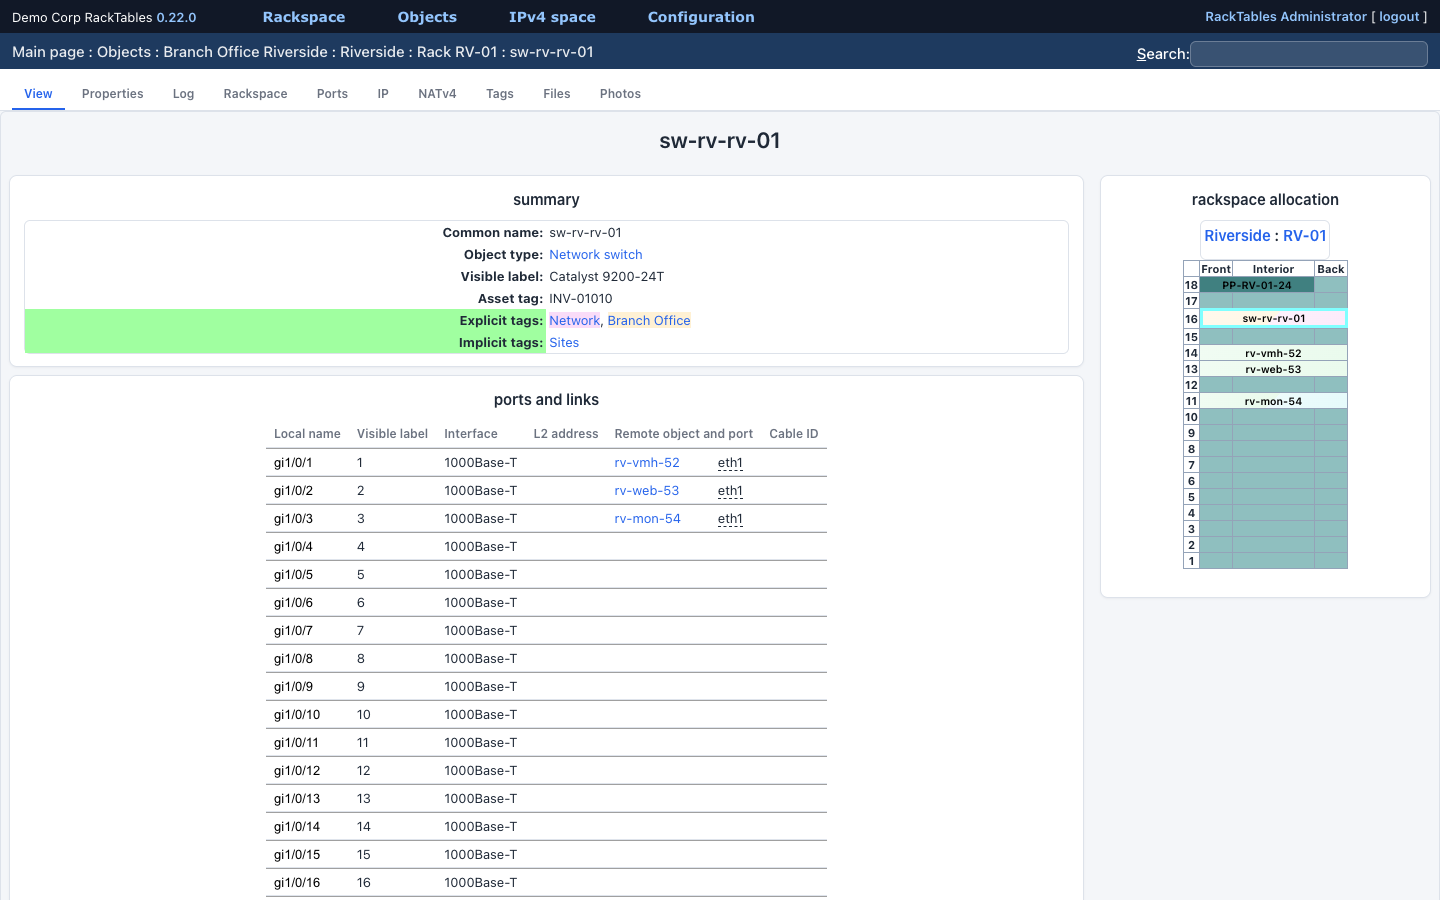
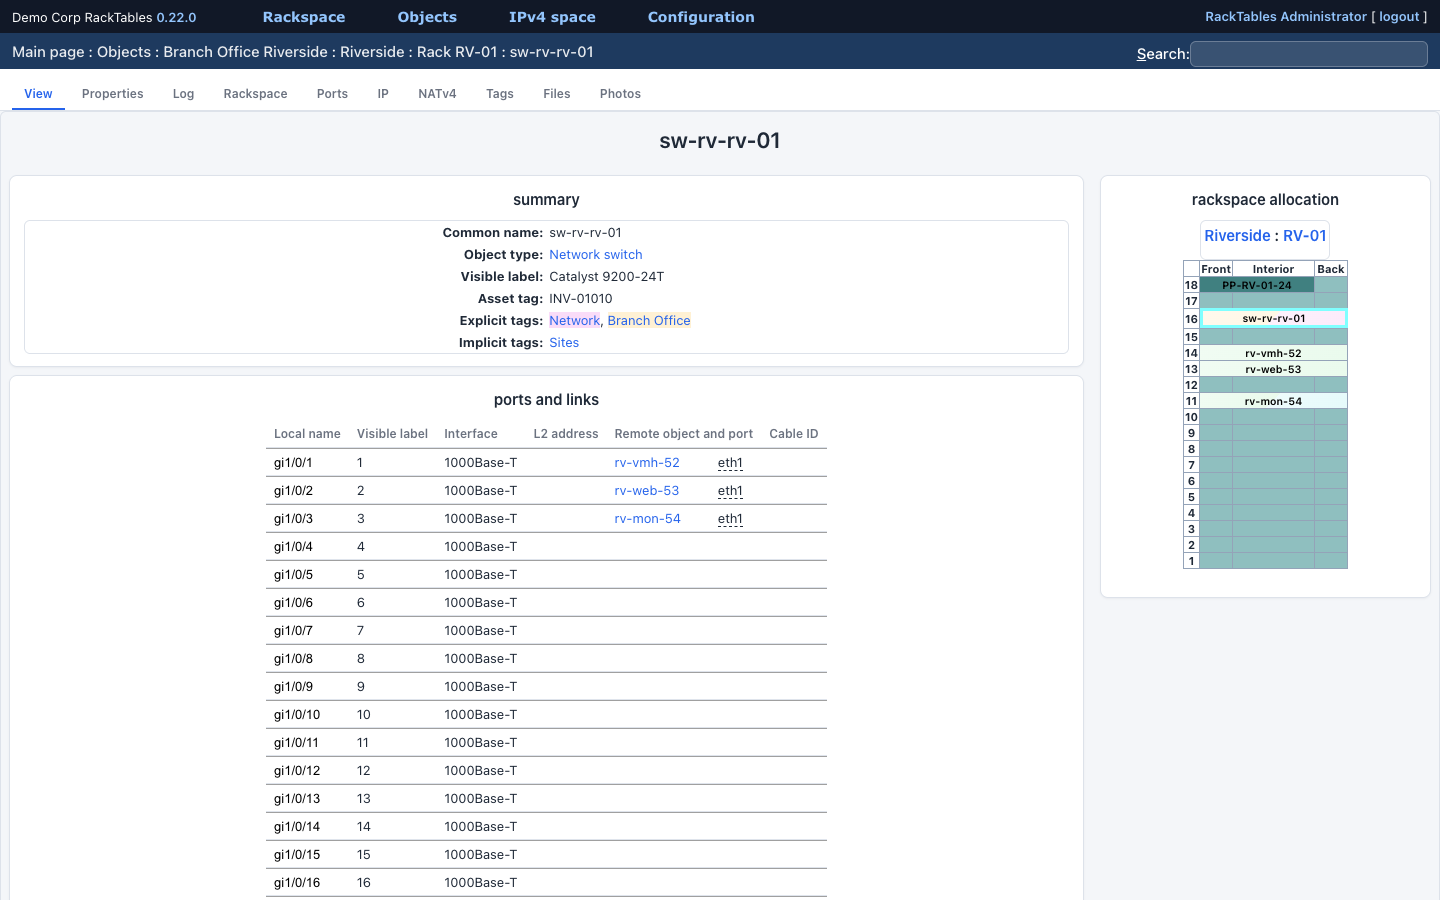
1.2.1: no green background behind tag rows, mobile Reports
- summary portlets: transparent background for th/td.tagchain (pi.css green)
- phones: Reports rows stacked, wide nested tables scroll inside
- README screenshots retaken

Changed region(s): [[0.0, 0.3422, 0.4062, 0.4044]]

diff --git a/refreshtheme/css/theme.css b/refreshtheme/css/theme.css
@@ -260,3 +260,18 @@ table.cooltable th > table td:has(> a > img[src*="img=minirack"]) {
   input, select, textarea { font-size: 16px; max-width: 100%; }
   input.rt-select-filter { min-width: 0; width: 100% !important; }
 }
+
+/* --- summary: no green background behind "Explicit/Implicit tags" (pi.css th.tagchain) --- */
+th.tagchain, td.tagchain { background: transparent !important; }
+
+/* --- Reports: wide nested tables scroll inside the report instead of widening the page --- */
+@media (max-width: 768px) {
+  .pagebar > table[align=center]:has(h3) { display: block; max-width: 100%; overflow-x: hidden; }
+  .pagebar > table[align=center]:has(h3) > tbody { display: block; }
+  .pagebar > table[align=center]:has(h3) > tbody > tr { display: flex; align-items: baseline; gap: 12px; }
+  .pagebar > table[align=center]:has(h3) > tbody > tr > td.tdright { flex: 1 1 auto; white-space: normal; text-align: left; }
+  .pagebar > table[align=center]:has(h3) > tbody > tr > td.tdleft { border-bottom: 0; }
+  .pagebar > table[align=center]:has(h3) > tbody > tr > td.tdleft { flex: 0 0 auto; text-align: right; }
+  .pagebar > table[align=center]:has(h3) > tbody > tr > th[colspan],
+  .pagebar > table[align=center]:has(h3) > tbody > tr > td[colspan] { display: block; flex: 1 1 100%; min-width: 0; overflow-x: auto; }
+}

diff --git a/refreshtheme/plugin.php b/refreshtheme/plugin.php
@@ -11,7 +11,7 @@ function plugin_refreshtheme_info ()
 	(
 		'name' => 'refreshtheme',
 		'longname' => 'Refresh Theme',
-		'version' => '1.2.0',
+		'version' => '1.2.1',
 		'home_url' => '',
 	);
 }
